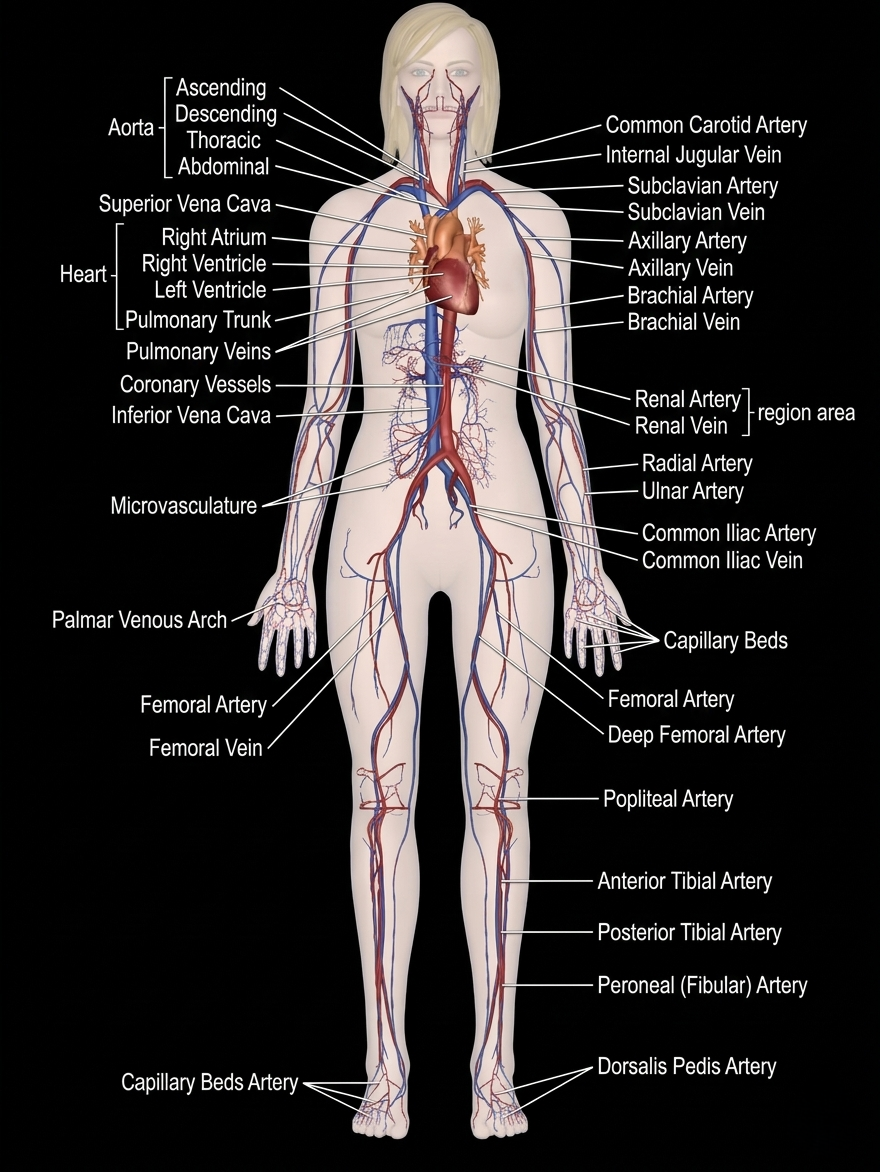
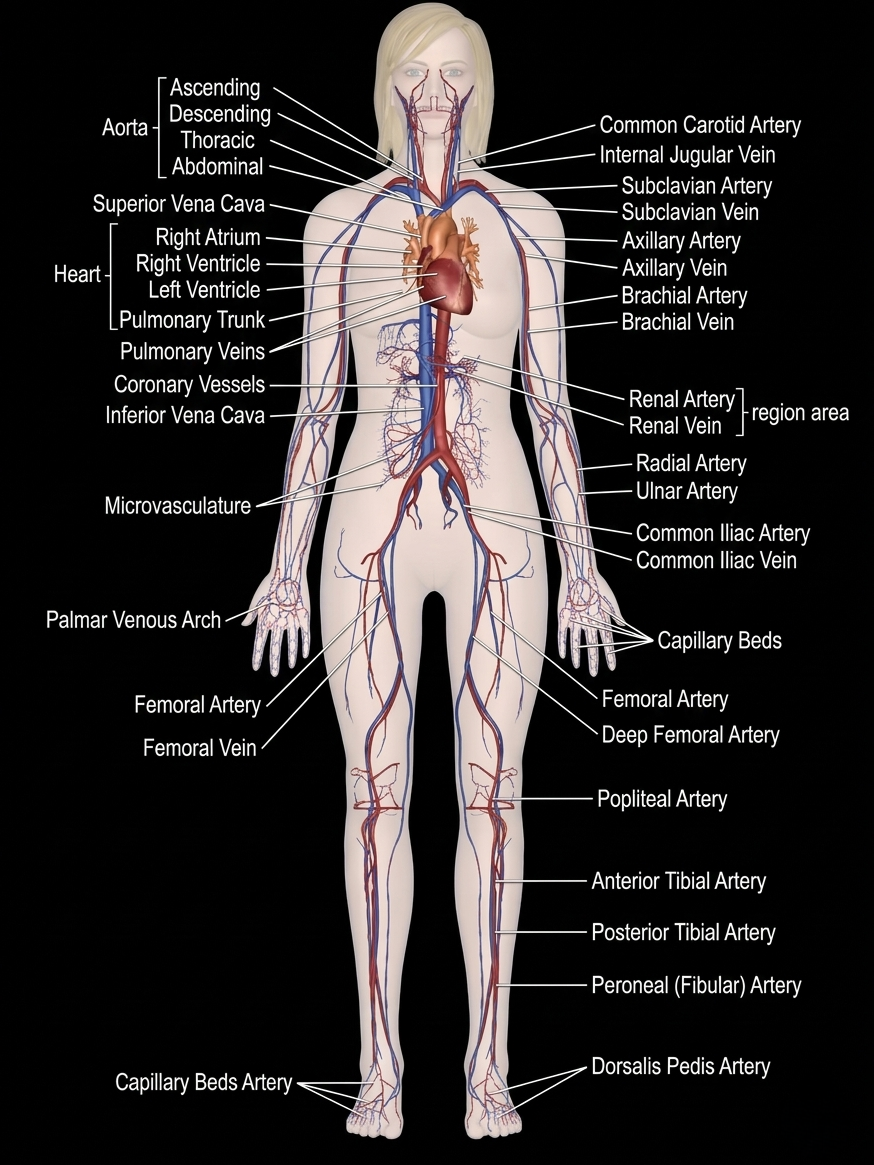
Update

Changed region(s): [[0.0618, 0.0, 0.9886, 0.9888], [0.5252, 0.0, 0.5561, 0.0309]]

diff --git a/level1/index.html b/level1/index.html
@@ -1,0 +1,11 @@
+<!DOCTYPE html>
+<html lang="en">
+<head>
+    <meta charset="UTF-8">
+    <meta name="viewport" content="width=device-width, initial-scale=1.0">
+    <title>Document</title>
+</head>
+<body>
+    
+</body>
+</html>